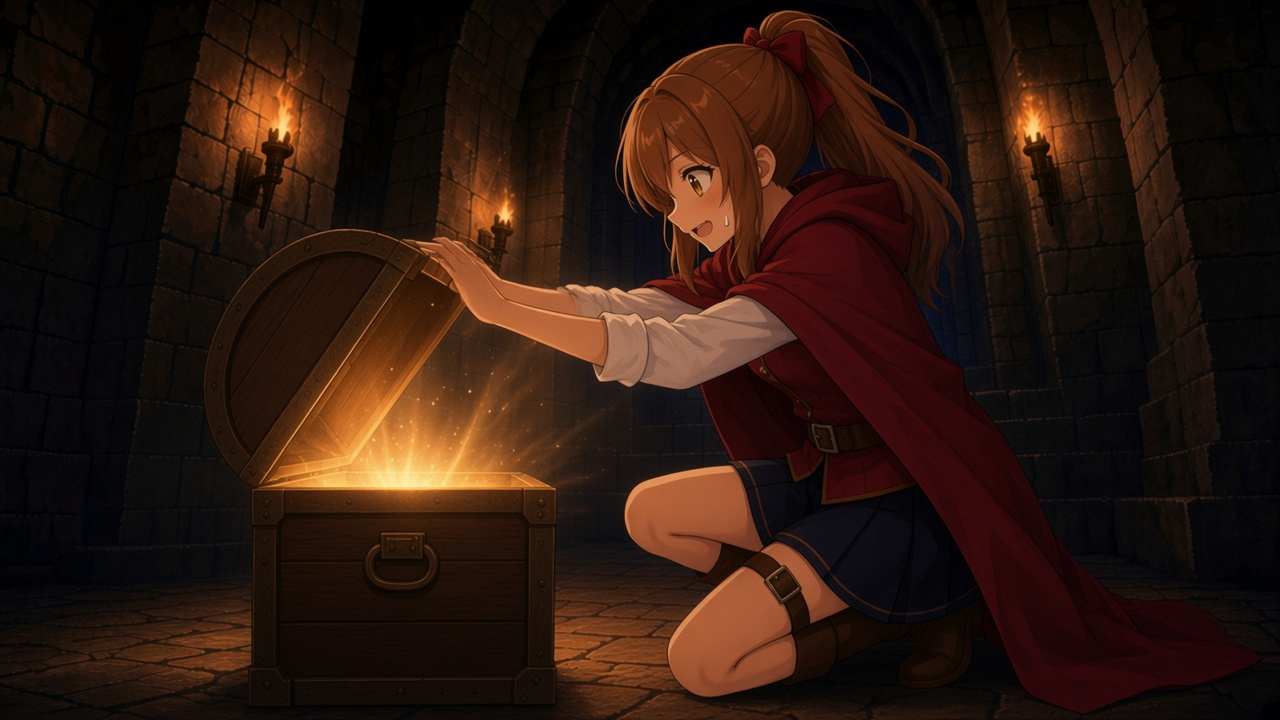
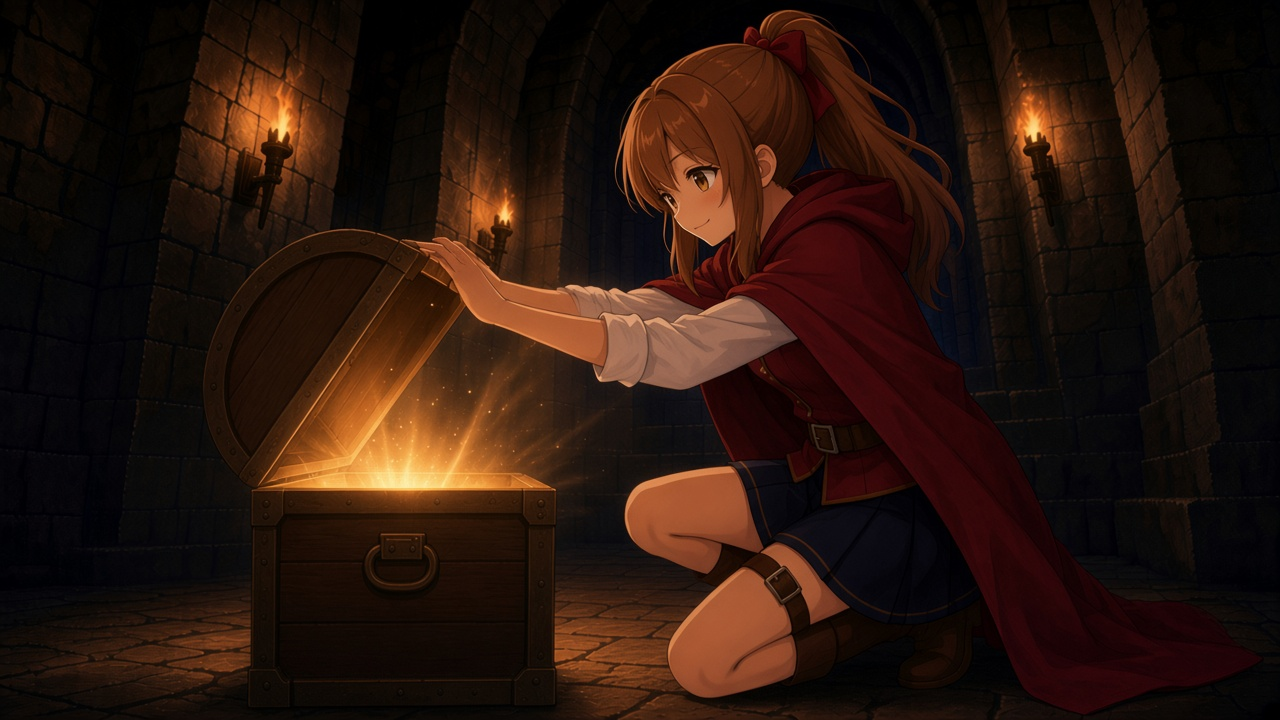
Restore the first gentle smile on the search picture.

diff --git a/index.html b/index.html
@@ -10075,7 +10075,7 @@
             <h3>道のあとのイベント（画像置き場）</h3>
             <p class="album-meta">道を選んだあとに出る出来事の絵。頭身は戦闘絵と同じ。迷子と遭遇の絵は出さない</p>
             <div class="ref-grid">
-              ${sheetFig("event-search.jpg?v=5", "探索", "land-ref", "span-2")}
+              ${sheetFig("event-search.jpg?v=6", "探索", "land-ref", "span-2")}
               ${sheetFig("event-fight.jpg?v=1", "戦闘", "land-ref", "span-2 path-series")}
               ${sheetFig("event-beggar.jpg?v=1", "物乞い", "land-ref", "span-2")}
               ${sheetFig("shop-merchant.jpg?v=6", "お店", "land-ref", "span-2")}
@@ -10260,7 +10260,7 @@
       const eventPictures = {
         "挑戦者に祝福を": [heroItem().bless || "blessing-goddess-f.jpg?v=2", `荘厳な女神が、ひざまずく${heroName()}に祝福を授けている`],
         "お店": ["shop-merchant.jpg?v=6", "ジト目のまま怒って、値段を負けてもらおうとしている戦士"],
-        "探索": ["event-search.jpg?v=5", "宝箱の蓋を彼女の側へ開け、光が漏れている戦士"],
+        "探索": ["event-search.jpg?v=6", "宝箱の蓋を彼女の側へ開け、光が漏れる。表情は最初の穏やかな笑顔"],
         "キャンプ": ["event-rest.jpg?v=5", "横向きに丸くなって、頬を赤らめてかわいく寝ている。よだれ。左太ももにベルト。奥のミノタウロスは気づかず通り過ぎる"],
         "物乞いに遭遇": ["event-beggar.jpg?v=1", "物乞いにカードを差し出す戦士"],
         "ジョブ": ["event-job.jpg?v=6", "紋章だけが光り、拳を上げてやる気を出している。顔は今のまま"],
